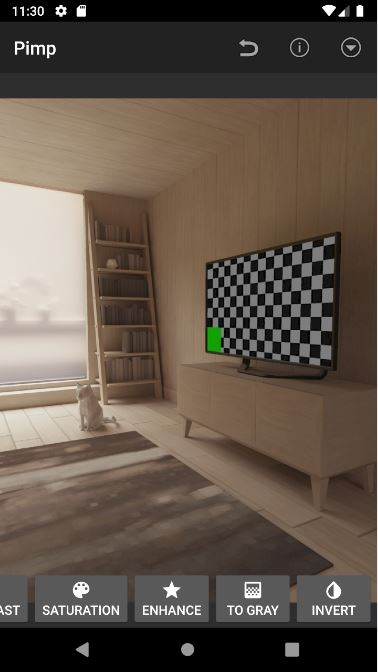
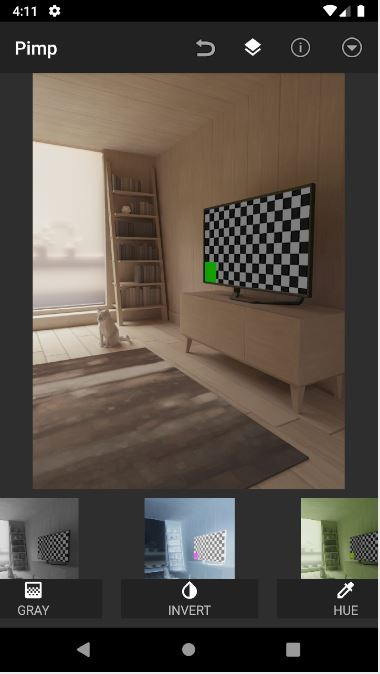
Write about macro in report

diff --git a/report/parts/application.tex b/report/parts/application.tex
@@ -68,6 +68,24 @@ Le bouton {\faInfoCircle} quand à lui affiche les informations suivantes à pro
 \end{center}
 \clearpage
 
+
+Enfin le dernier bouton en haut à droite permet d'accéder au menu des effets personnalisés.
+\begin{center}
+    \begin{minipage}{.48\textwidth}
+      \includegraphics[width=1\textwidth]{report_src/app_manual/macro_menu_preview.JPG}
+    \end{minipage}
+    \begin{minipage}{.48\textwidth}
+        Il est possible de conserver la sucession d'effets actuellement appliqués à l'image pour pouvoir la réappliquer sur une autre image.
+
+        Il est également possible de les supprimer, ou encore d'afficher en détails la succession d'effets qui les composent.
+
+        ATTENTION : Pour l'instant cette liste n'est pas persistante et est perdue si l'application est tuée.
+    \end{minipage}
+\end{center}
+\clearpage
+
+
+
 Après avoir sélectionné un effet sur la liste en bas de l'écran, des éléments d'interface vont se superposer à votre image :
 \begin{center}
     \begin{minipage}{.48\textwidth}
